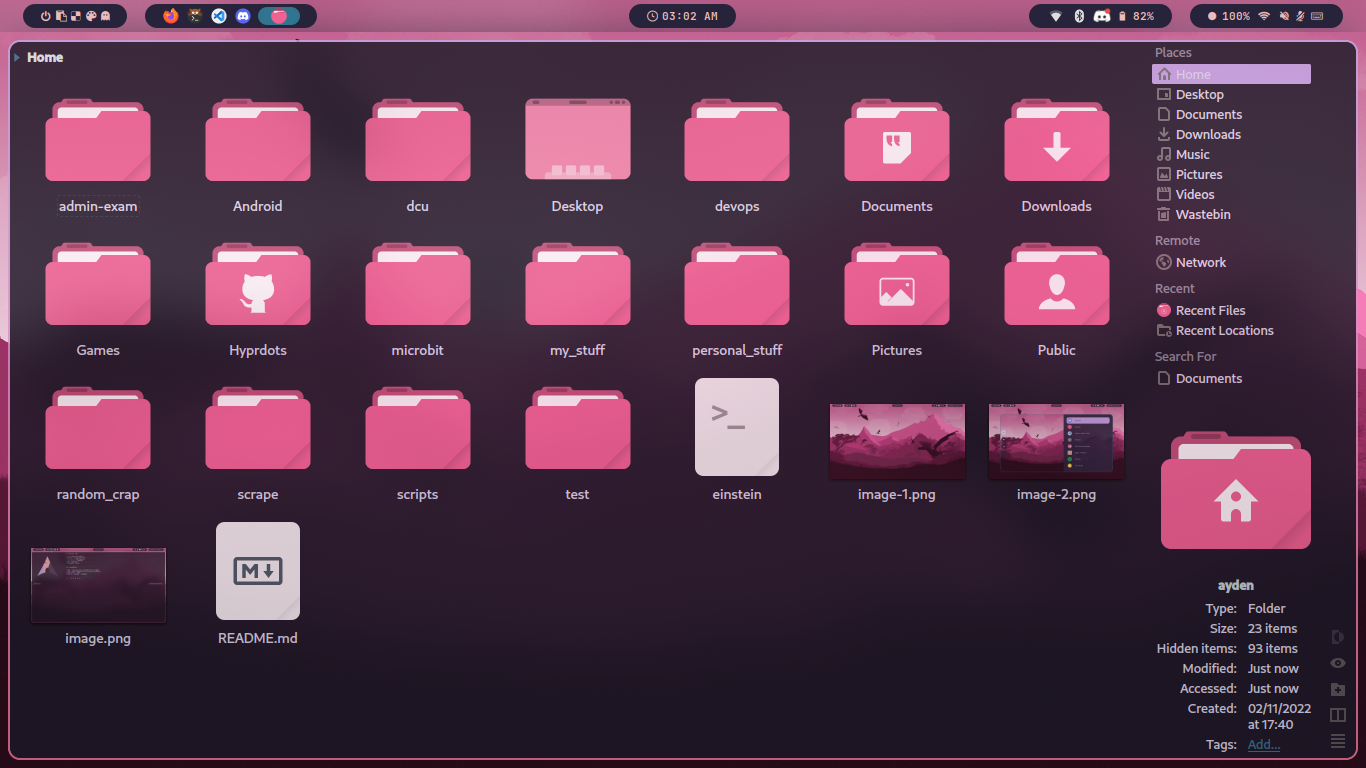
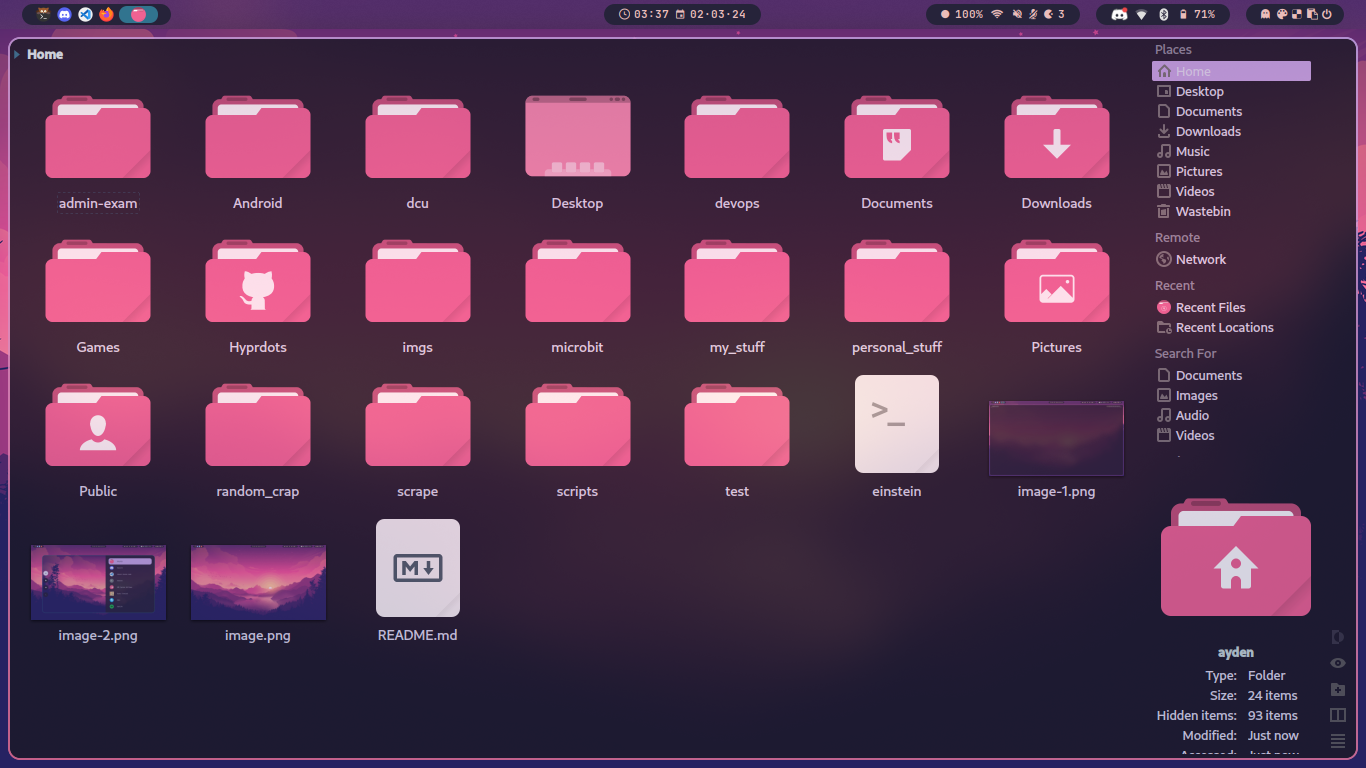
update showcase images and add missing configs

diff --git a/.config/waybar/style.css b/.config/waybar/style.css
@@ -24,12 +24,12 @@ tooltip {
     box-shadow: none;
 	text-shadow: none;
     padding: 0px;
-    border-radius: 9px;
-    margin-top: 3px;
-    margin-bottom: 3px;
+    border-radius: 8px;
+    margin-top: 2px;
+    margin-bottom: 2px;
     margin-left: 0px;
-    padding-left: 3px;
-    padding-right: 3px;
+    padding-left: 2px;
+    padding-right: 2px;
     margin-right: 0px;
     color: @main-fg;
     animation: ws_normal 20s ease-in-out 1;
@@ -38,10 +38,10 @@ tooltip {
 #workspaces button.active {
     background: @wb-act-bg;
     color: @wb-act-fg;
-    margin-left: 3px;
-    padding-left: 12px;
-    padding-right: 12px;
-    margin-right: 3px;
+    margin-left: 2px;
+    padding-left: 11px;
+    padding-right: 11px;
+    margin-right: 2px;
     animation: ws_active 20s ease-in-out 1;
     transition: all 0.4s cubic-bezier(.55,-0.68,.48,1.682);
 }
@@ -57,12 +57,12 @@ tooltip {
     box-shadow: none;
 	text-shadow: none;
     padding: 0px;
-    border-radius: 9px;
-    margin-top: 3px;
-    margin-bottom: 3px;
+    border-radius: 8px;
+    margin-top: 2px;
+    margin-bottom: 2px;
     margin-left: 0px;
-    padding-left: 3px;
-    padding-right: 3px;
+    padding-left: 2px;
+    padding-right: 2px;
     margin-right: 0px;
     color: @wb-color;
     animation: tb_normal 20s ease-in-out 1;
@@ -71,10 +71,10 @@ tooltip {
 #taskbar button.active {
     background: @wb-act-bg;
     color: @wb-act-color;
-    margin-left: 3px;
-    padding-left: 12px;
-    padding-right: 12px;
-    margin-right: 3px;
+    margin-left: 2px;
+    padding-left: 11px;
+    padding-right: 11px;
+    margin-right: 2px;
     animation: tb_active 20s ease-in-out 1;
     transition: all 0.4s cubic-bezier(.55,-0.68,.48,1.682);
 }
@@ -131,37 +131,37 @@ tooltip {
 }
 
 #custom-r_end {
-    border-radius: 0px 21px 21px 0px;
-    margin-right: 9px;
-    padding-right: 3px;
+    border-radius: 0px 20px 20px 0px;
+    margin-right: 8px;
+    padding-right: 0px;
 }
 
 #custom-l_end {
-    border-radius: 21px 0px 0px 21px;
-    margin-left: 9px;
-    padding-left: 3px;
+    border-radius: 20px 0px 0px 20px;
+    margin-left: 8px;
+    padding-left: 0px;
 }
 
 #custom-sr_end {
     border-radius: 0px;
-    margin-right: 9px;
-    padding-right: 3px;
+    margin-right: 8px;
+    padding-right: 0px;
 }
 
 #custom-sl_end {
     border-radius: 0px;
-    margin-left: 9px;
-    padding-left: 3px;
+    margin-left: 8px;
+    padding-left: 0px;
 }
 
 #custom-rr_end {
     border-radius: 0px 7px 7px 0px;
-    margin-right: 9px;
-    padding-right: 3px;
+    margin-right: 8px;
+    padding-right: 0px;
 }
 
 #custom-rl_end {
     border-radius: 7px 0px 0px 7px;
-    margin-left: 9px;
-    padding-left: 3px;
+    margin-left: 8px;
+    padding-left: 0px;
 }

diff --git a/.config/waybar/themes/Wall-Dcol.css b/.config/waybar/themes/Wall-Dcol.css
@@ -1,7 +1,7 @@
 @define-color bar-bg rgba(0, 0, 0, 0);
-@define-color main-bg #45152C;
-@define-color main-fg #CE6698;
-@define-color wb-act-bg #98404B;
-@define-color wb-act-fg #302024;
-@define-color wb-hvr-bg #C17096;
-@define-color wb-hvr-fg #8D4950;
+@define-color main-bg #3D2767;
+@define-color main-fg #CC548F;
+@define-color wb-act-bg #983240;
+@define-color wb-act-fg #3F344A;
+@define-color wb-hvr-bg #B45C87;
+@define-color wb-hvr-fg #853A44;
